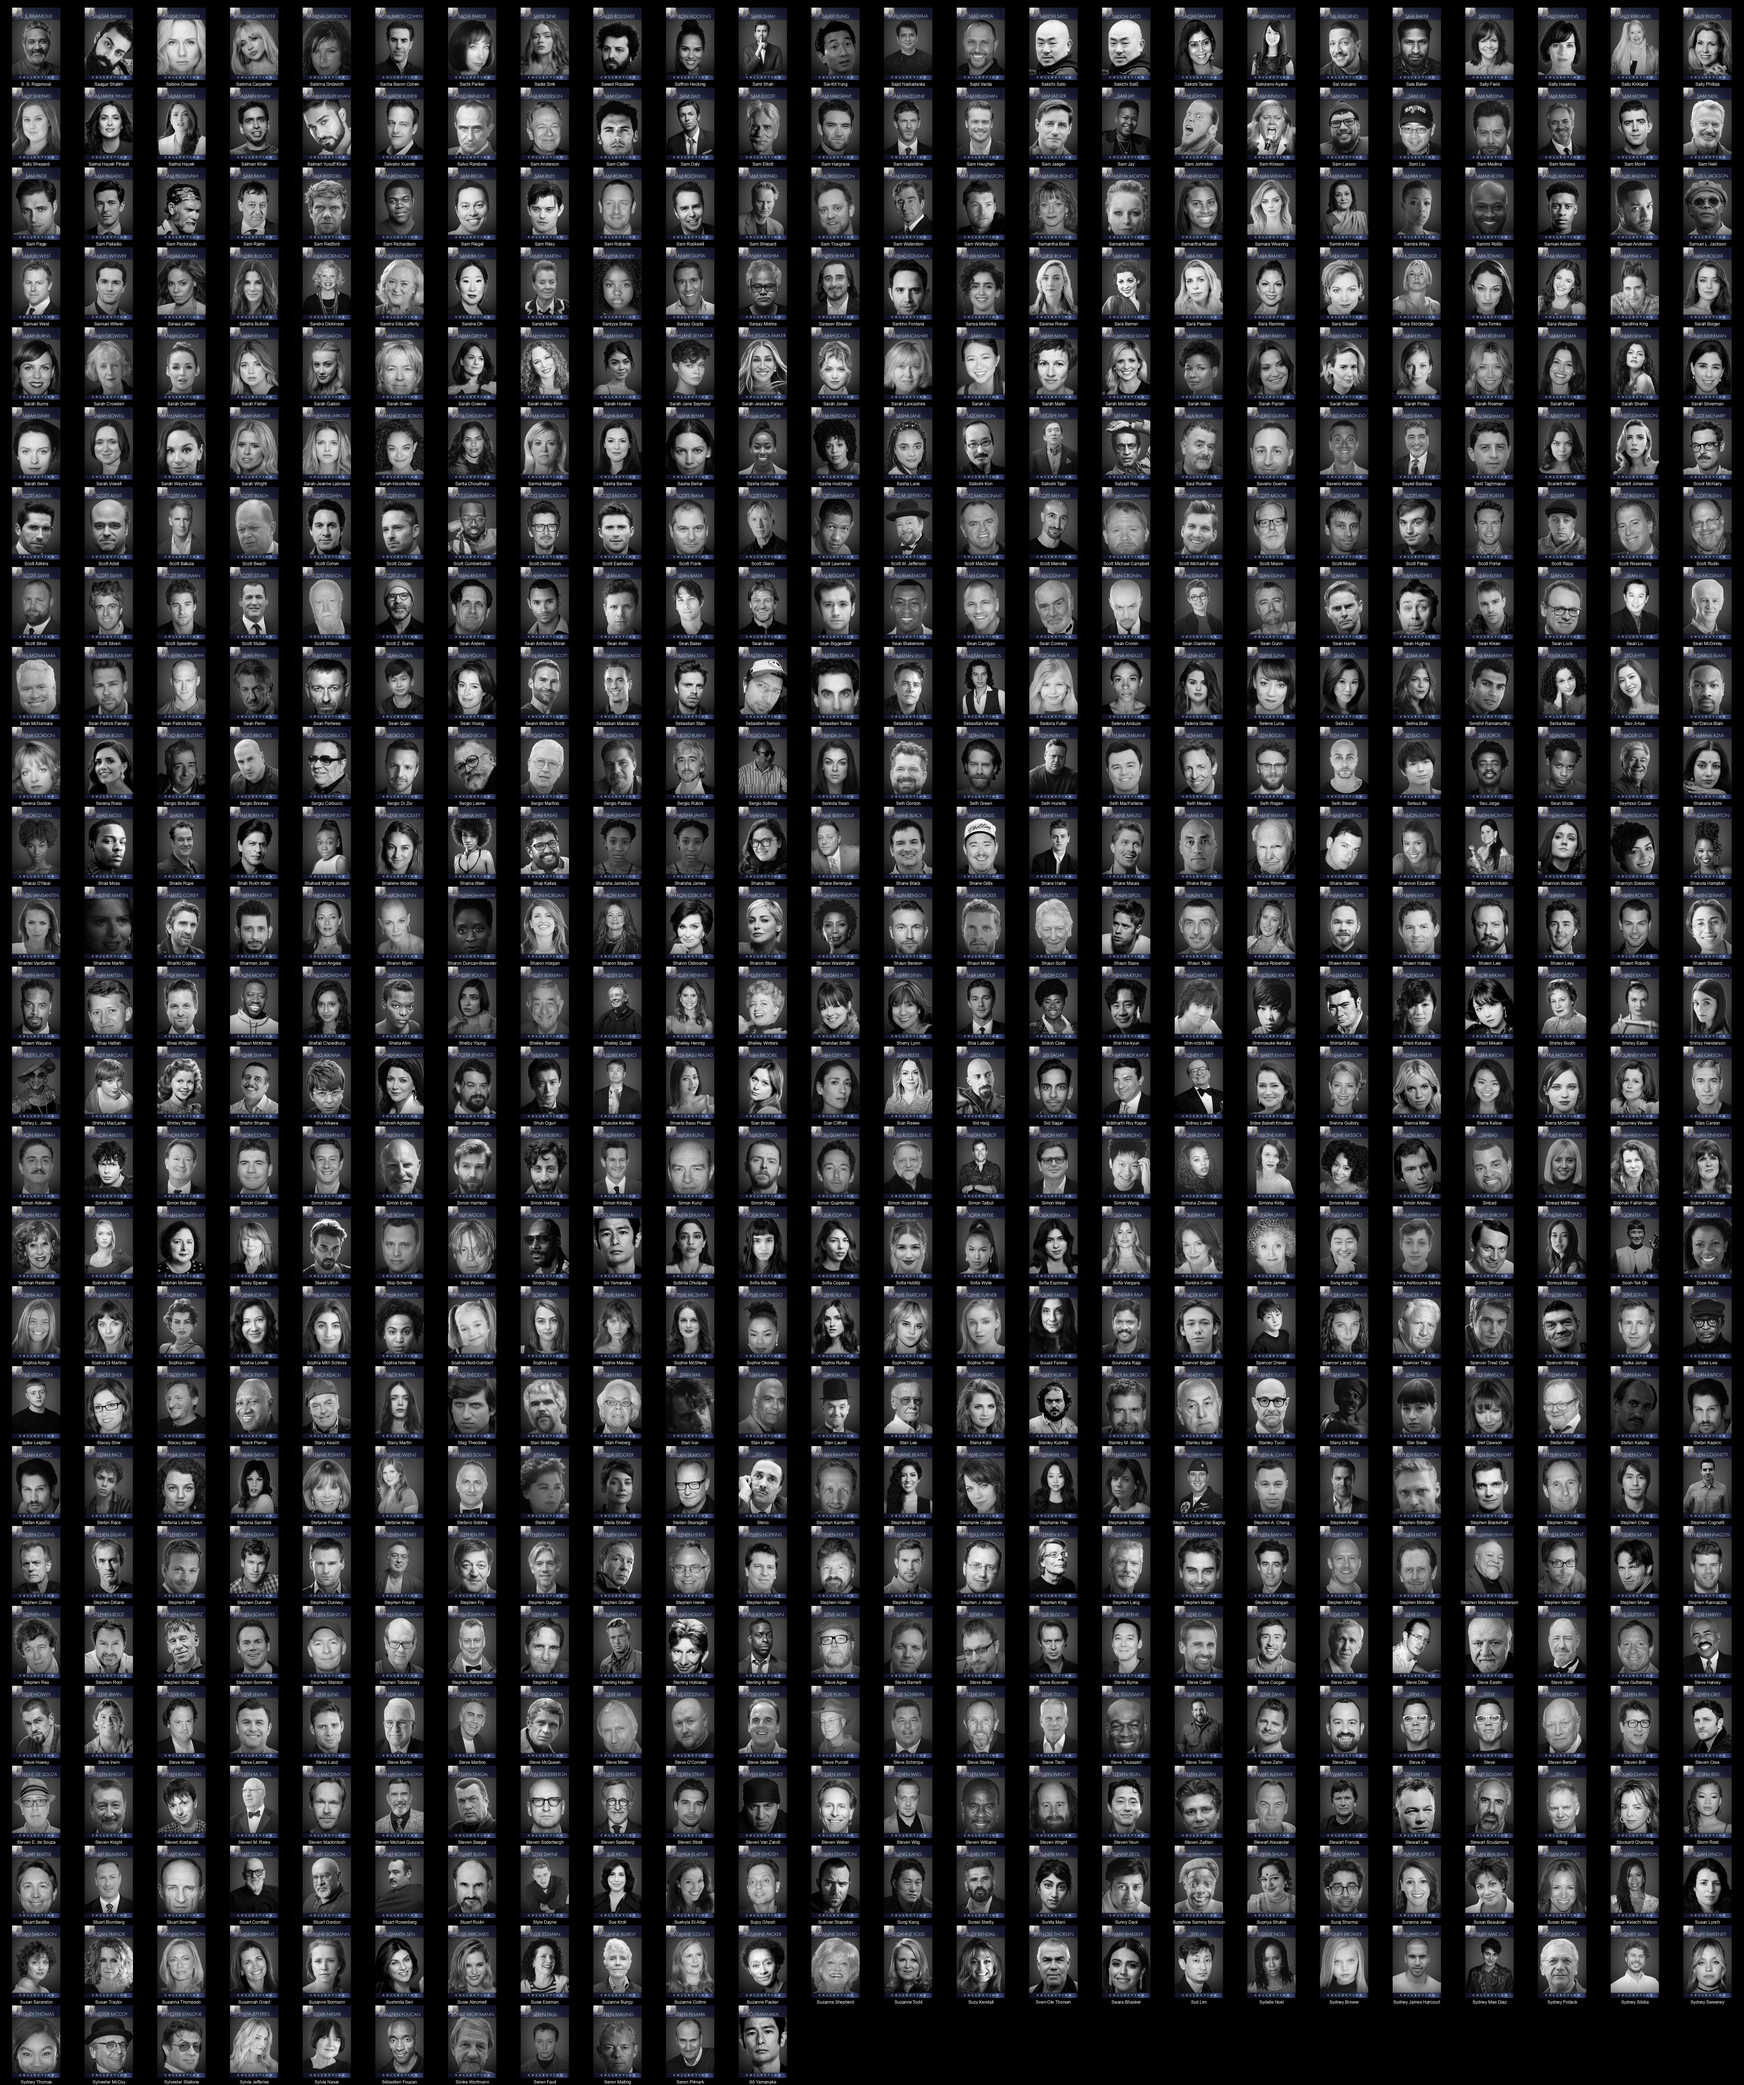
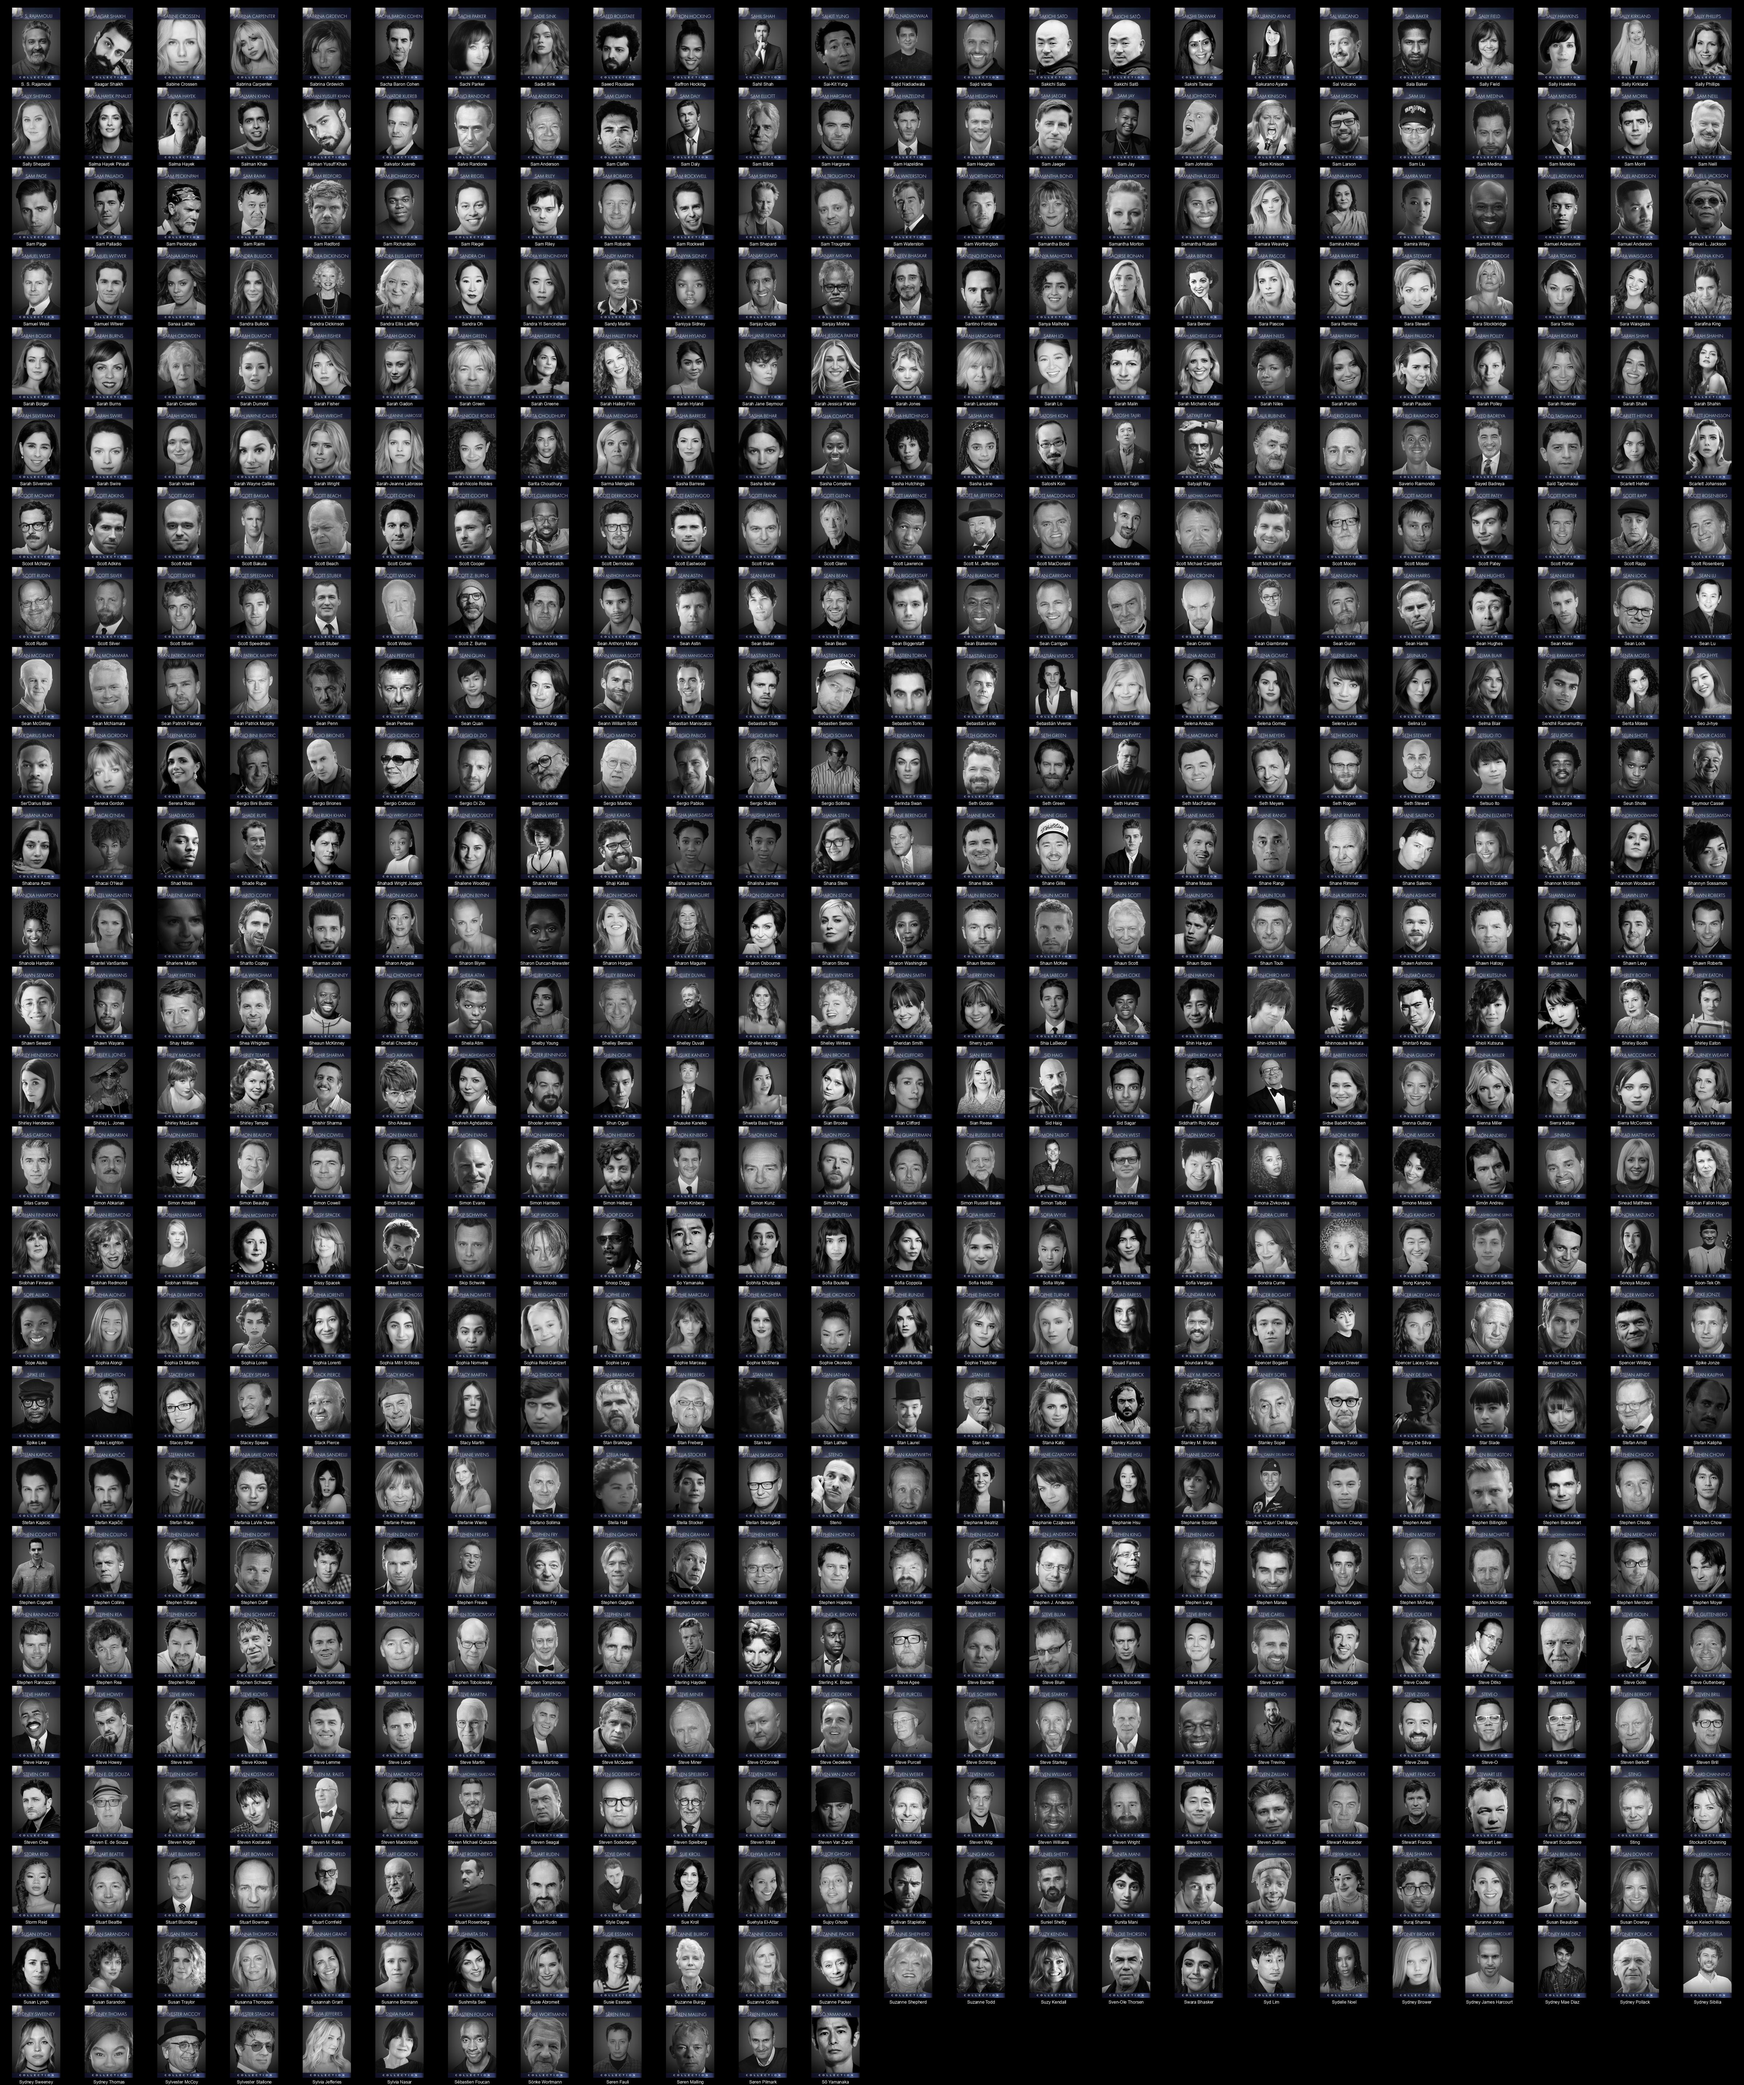
Readme Update

Changed region(s): [[0.0, 0.1247, 1.0, 1.0]]

diff --git a/README.md b/README.md
@@ -1,4 +1,4 @@
-# Plex Meta Manager People - DIIIVOY (diiivoy) (8801 Images)
+# Plex Meta Manager People - DIIIVOY (diiivoy) (8802 Images)
 
 <details><summary><a href="'">' (1 Images)</a></summary>
 
@@ -7438,7 +7438,7 @@
 * [Ryunosuke Kamiki](https://raw.githubusercontent.com/meisnate12/Plex-Meta-Manager-People-diiivoy/master/R/Images/Ryunosuke%20Kamiki.jpg)
 * [Ryusuke Hamaguchi](https://raw.githubusercontent.com/meisnate12/Plex-Meta-Manager-People-diiivoy/master/R/Images/Ryusuke%20Hamaguchi.jpg)
 </details>
-<details><summary><a href="S">S (611 Images)</a></summary>
+<details><summary><a href="S">S (612 Images)</a></summary>
 
 * [S. S. Rajamouli](https://raw.githubusercontent.com/meisnate12/Plex-Meta-Manager-People-diiivoy/master/S/Images/S.%20S.%20Rajamouli.jpg)
 * [Saagar Shaikh](https://raw.githubusercontent.com/meisnate12/Plex-Meta-Manager-People-diiivoy/master/S/Images/Saagar%20Shaikh.jpg)
@@ -7519,6 +7519,7 @@
 * [Sandra Dickinson](https://raw.githubusercontent.com/meisnate12/Plex-Meta-Manager-People-diiivoy/master/S/Images/Sandra%20Dickinson.jpg)
 * [Sandra Ellis Lafferty](https://raw.githubusercontent.com/meisnate12/Plex-Meta-Manager-People-diiivoy/master/S/Images/Sandra%20Ellis%20Lafferty.jpg)
 * [Sandra Oh](https://raw.githubusercontent.com/meisnate12/Plex-Meta-Manager-People-diiivoy/master/S/Images/Sandra%20Oh.jpg)
+* [Sandra Yi Sencindiver](https://raw.githubusercontent.com/meisnate12/Plex-Meta-Manager-People-diiivoy/master/S/Images/Sandra%20Yi%20Sencindiver.jpg)
 * [Sandy Martin](https://raw.githubusercontent.com/meisnate12/Plex-Meta-Manager-People-diiivoy/master/S/Images/Sandy%20Martin.jpg)
 * [Saniyya Sidney](https://raw.githubusercontent.com/meisnate12/Plex-Meta-Manager-People-diiivoy/master/S/Images/Saniyya%20Sidney.jpg)
 * [Sanjay Gupta](https://raw.githubusercontent.com/meisnate12/Plex-Meta-Manager-People-diiivoy/master/S/Images/Sanjay%20Gupta.jpg)

diff --git a/S/README.md b/S/README.md
@@ -1,4 +1,4 @@
-# Plex Meta Manager People - DIIIVOY (diiivoy) - S (611 Images)
+# Plex Meta Manager People - DIIIVOY (diiivoy) - S (612 Images)
 ![Grid](grid.jpg)
 
 * [S. S. Rajamouli](https://raw.githubusercontent.com/meisnate12/Plex-Meta-Manager-People-diiivoy/master/S/Images/S.%20S.%20Rajamouli.jpg)
@@ -80,6 +80,7 @@
 * [Sandra Dickinson](https://raw.githubusercontent.com/meisnate12/Plex-Meta-Manager-People-diiivoy/master/S/Images/Sandra%20Dickinson.jpg)
 * [Sandra Ellis Lafferty](https://raw.githubusercontent.com/meisnate12/Plex-Meta-Manager-People-diiivoy/master/S/Images/Sandra%20Ellis%20Lafferty.jpg)
 * [Sandra Oh](https://raw.githubusercontent.com/meisnate12/Plex-Meta-Manager-People-diiivoy/master/S/Images/Sandra%20Oh.jpg)
+* [Sandra Yi Sencindiver](https://raw.githubusercontent.com/meisnate12/Plex-Meta-Manager-People-diiivoy/master/S/Images/Sandra%20Yi%20Sencindiver.jpg)
 * [Sandy Martin](https://raw.githubusercontent.com/meisnate12/Plex-Meta-Manager-People-diiivoy/master/S/Images/Sandy%20Martin.jpg)
 * [Saniyya Sidney](https://raw.githubusercontent.com/meisnate12/Plex-Meta-Manager-People-diiivoy/master/S/Images/Saniyya%20Sidney.jpg)
 * [Sanjay Gupta](https://raw.githubusercontent.com/meisnate12/Plex-Meta-Manager-People-diiivoy/master/S/Images/Sanjay%20Gupta.jpg)
